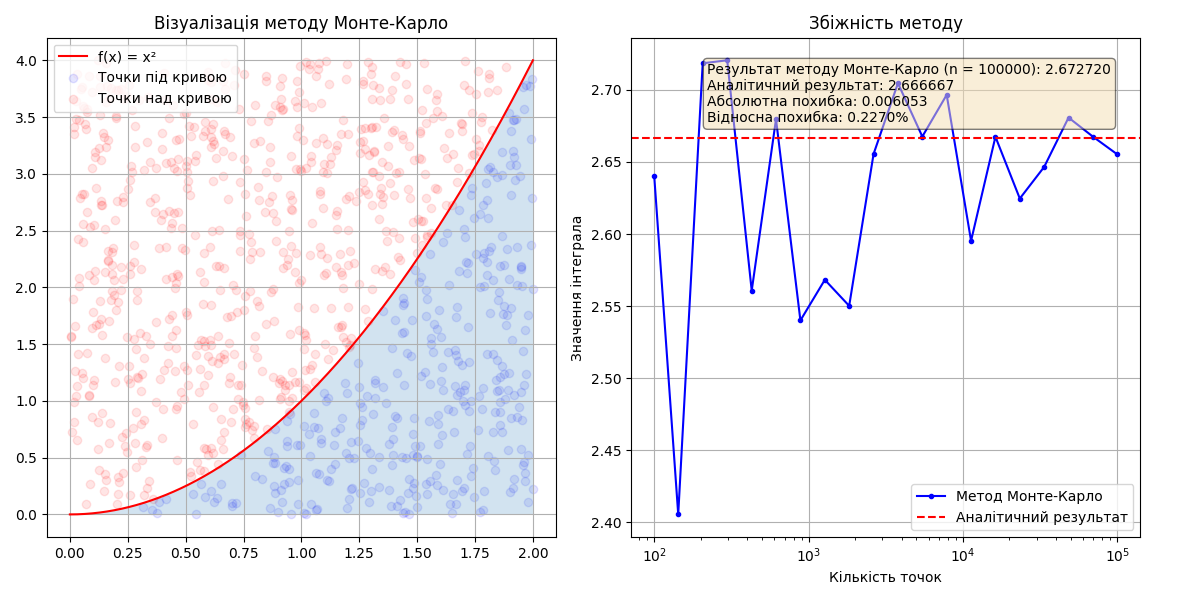
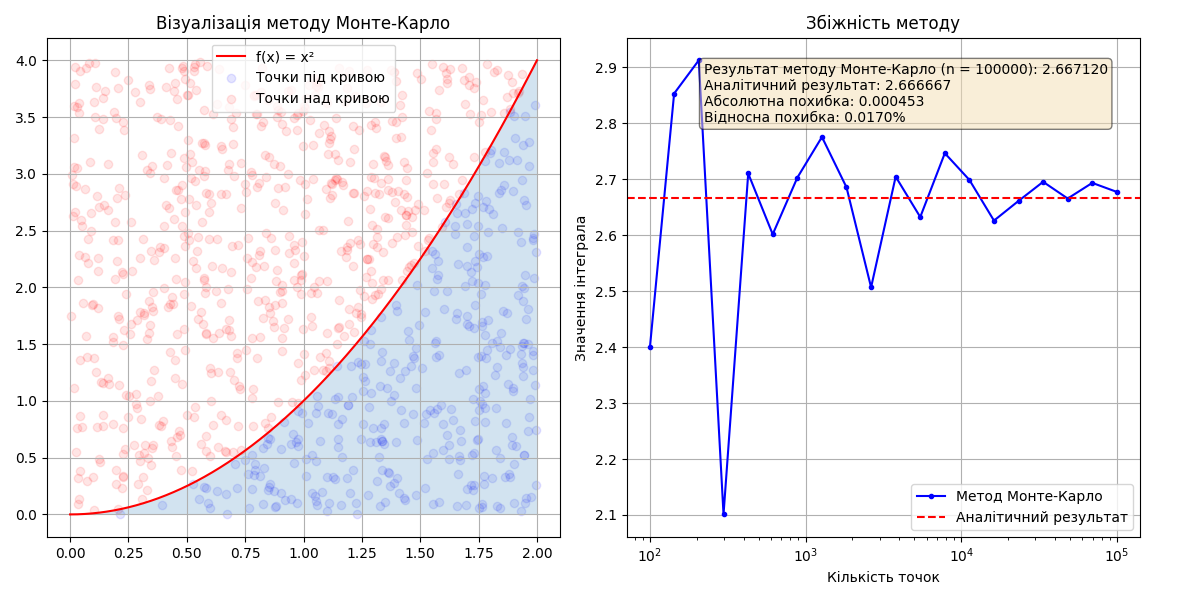
implement task2

diff --git a/task2.py b/task2.py
@@ -3,15 +3,25 @@ import matplotlib.pyplot as plt
 from scipy.integrate import quad
 
 # Визначення функції
-def f(x):
+def f(x)->float:
+    """
+    Функція, яку потрібно інтегрувати
+    Args:
+        x (float): значення аргументу
+    Returns:
+        float: значення функції в точці x
+    """
     return x**2
 
-# Параметри інтегрування
-a, b = 0, 2  # межі інтегрування
-n_points = 100000  # кількість точок для методу Монте-Карло
-
-# Метод Монте-Карло
-def monte_carlo_integration(f, a, b, n):
+def monte_carlo_integration(f, a, b, n)->float:
+    """Метод Монте-Карло для обчислення інтегралу
+    Args:
+        f (function): функція, яку потрібно інтегрувати
+        a, b (float): межі інтегрування
+        n (int): кількість точок
+    Returns:
+        float: обчислена площа під кривою
+    """
     # Генеруємо випадкові точки
     x = np.random.uniform(a, b, n)
     y = np.random.uniform(0, f(b), n)
@@ -24,6 +34,14 @@ def monte_carlo_integration(f, a, b, n):
     return area
 
 def main():
+    """Головна функція"""
+    
+    # Параметри інтегрування
+    # межі
+    a, b = 0, 2
+    # кількість точок для методу Монте-Карло
+    n_points = 100000
+
     # Виконання обчислень
     monte_carlo_result = monte_carlo_integration(f, a, b, n_points)
     analytical_result, error = quad(f, a, b)
@@ -32,11 +50,11 @@ def main():
 
     # Графік 1: Функція та точки Монте-Карло
     plt.subplot(1, 2, 1)
-    x_plot = np.linspace(a, b, 1000)
+    x_plot = np.linspace(a, b, n_points)
     y_plot = f(x_plot)
 
     # Генеруємо точки для візуалізації
-    n_vis = 1000
+    n_vis = n_points//100
     x_points = np.random.uniform(a, b, n_vis)
     y_points = np.random.uniform(0, f(b), n_vis)
     under_curve = y_points <= f(x_points)
@@ -90,7 +108,6 @@ def main():
     plt.tight_layout()
     plt.savefig("monte_carlo_integration.png")
     plt.show()
-
 
     print(f"Результат методу Монте-Карло (n = {n_points}): {monte_carlo_result:.6f}")
     print(f"Аналітичний результат: {analytical_result:.6f}")

diff --git a/task1.py b/task1.py
@@ -1,6 +1,7 @@
 from pulp import *
 
 def main():
+    """Головна функція"""
     # Створюємо модель
     model = LpProblem("Оптимізація_виробництва_напоїв", LpMaximize)
 

diff --git a/README.md b/README.md
@@ -108,11 +108,17 @@ print("Інтеграл: ", result, error)
 
 ### Критерії оцінювання:
 - Програмно реалізовано алгоритм пошуку визначеного інтеграла за допомогою методу Монте-Карло. Код виконується та повертає значення інтеграла.
-- Виконано порівняльний аналіз результату, отриманого за допомогою алгоритму, з результатом, отриманим аналітично або за допомогою функції quad з підмодуля integrate бібліотеки SciPy.
+- Виконано порівняльний аналіз результату, отриманого за допомогою алгоритму, з результатом, отриманим аналітично або за допомогою функції `quad` з підмодуля `integrate` бібліотеки `SciPy`.
 - Зроблено висновки щодо правильності розрахунків шляхом порівняння отриманих результатів і результатів, які дає функція quad або аналітичне обчислення інтеграла. Висновки оформлено у вигляді файлу readme.md домашнього завдання.
 
-## Результат
+## Висновки
 ![Результат](./monte_carlo_integration.png)
+
+- Метод Монте-Карло дає достатньо точне наближення при великій кількості точок, результат залежить від кількості точок, що використовуються для інтегрування
+- Перевага методу - простота реалізації та можливість обчислення складних інтегралів
+- Недолік - потреба у великій кількості точок для досягнення високої точності
+- У нашому випадку, при використанні 100000 точок, відносна похибка становить лише кілька відсотків, що свідчить про високу точність методу.
+
 
 ### Ресурси
 - [task2.py](./task2.py)
@@ -121,5 +127,5 @@ print("Інтеграл: ", result, error)
 ## Додатково
 - [Домашнє завдання до теми "Лінійне програмування та рандомізовані алгоритми"](https://www.edu.goit.global/uk/learn/24858703/19646173/19658355/homework)
 - [https://github.com/nickolas-z/goit-algo-hw-10](https://github.com/nickolas-z/goit-algo-hw-10)
-- [goit-algo-hw-10-main.zip]()
+- [goit-algo-hw-10-main.zip](https://s3.eu-north-1.amazonaws.com/lms.goit.files/dd5ad4c3-c0b2-4c52-8a18-97ecab96f080%D0%94%D0%9710_%D0%97%D1%83%D0%B1%D1%87%D0%B8%D0%BA%D0%9C%D0%B8%D0%BA%D0%BE%D0%BB%D0%B0%D0%9C%D0%B8%D0%BA%D0%BE%D0%BB%D0%B0%D0%B9%D0%BE%D0%B2%D0%B8%D1%87.zip)
 - [Basic-Algorithms-and-Data-Structures-Neoversity](https://github.com/nickolas-z/Basic-Algorithms-and-Data-Structures-Neoversity)
